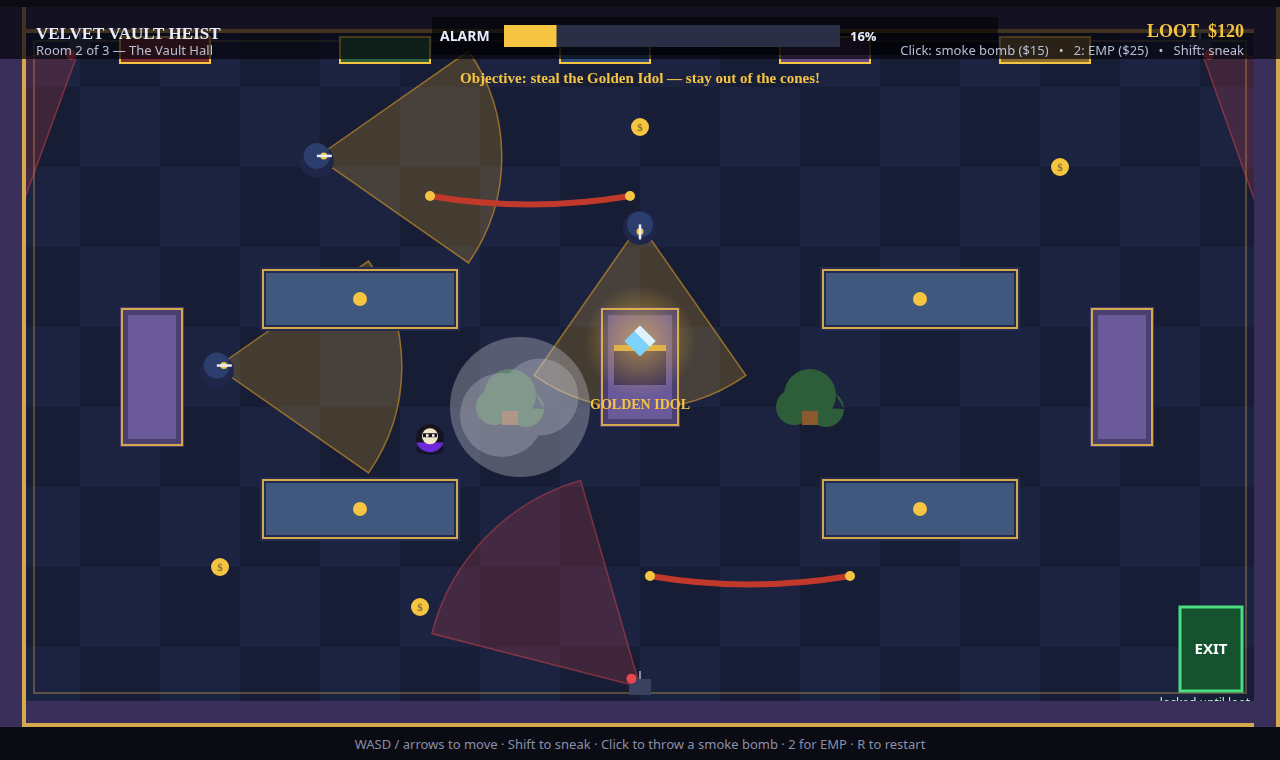
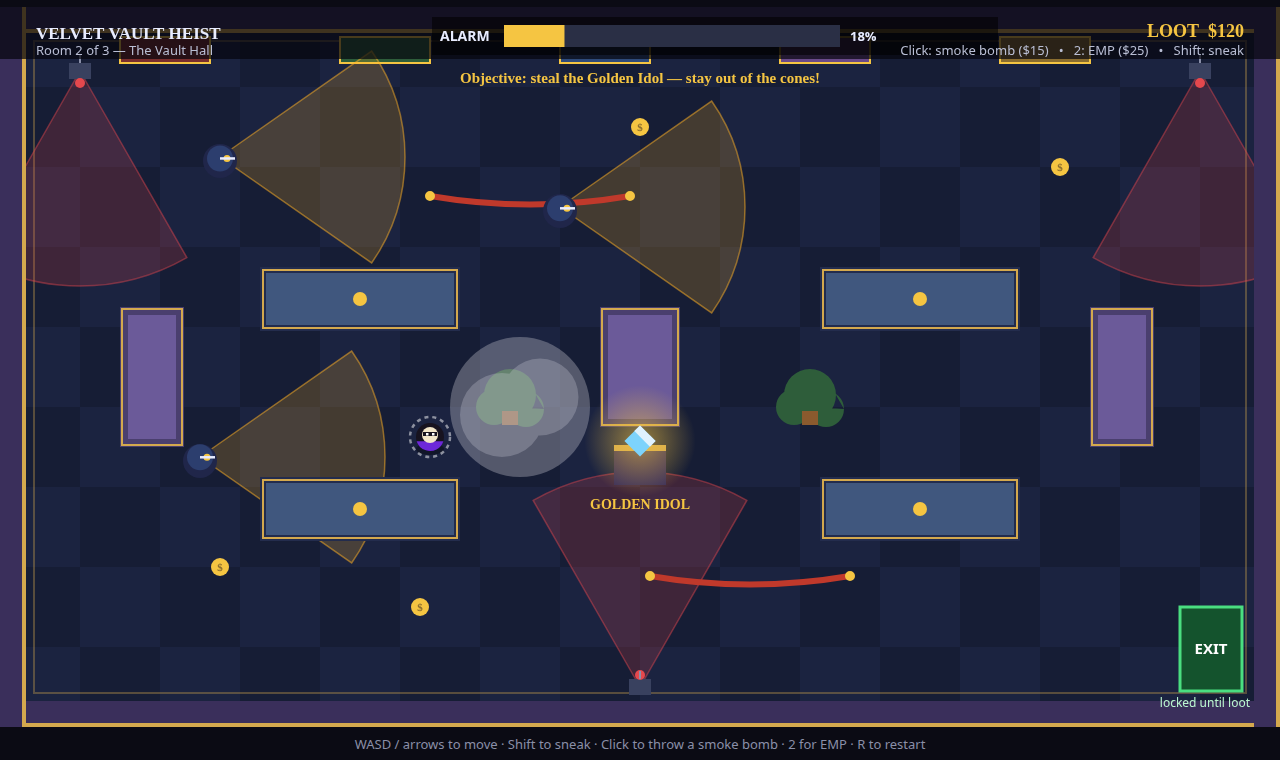
Fix critic round 1: loot out of pillars, exit label, staged SPOTTED/sneak, guard routes, reachability tests
- Rooms 2/3 loot moved to clear floor (L2 640,360->640,460; L3 640,300->640,430)
- Exit label drawn after walls so it is no longer painted over
- Staged ?shot= scenes freeze into a tableau: shot 2 sneak ring and shot 3
  SPOTTED!/red-! survive update(); shot 3 thief genuinely inside guard cone
- All guard patrols re-routed clear of every solid (legs verified by test)
- tests/logic-test.mjs: 51/51 pass incl per-level BFS loot+exit reachability
- Re-shot all 4 screenshots in headless Chrome; BUILD-REPORT corrected

diff --git a/game/src/config.js b/game/src/config.js
@@ -47,7 +47,7 @@ export const LEVELS = [
     smallLoot: [
       { x: 300, y: 180, taken: false },
       { x: 640, y: 560, taken: false },
-      { x: 1080, y: 520, taken: false },
+      { x: 1130, y: 600, taken: false },
     ],
     walls: [
       block(0, 0, VIEW_W, WALL_T, 'wall'),
@@ -66,11 +66,11 @@ export const LEVELS = [
       block(1080, 330, 70, 90, 'desk'),
     ],
     guards: [
-      { waypoints: [{ x: 380, y: 420 }, { x: 380, y: 130 }, { x: 760, y: 130 }, { x: 760, y: 420 }], pause: 0.9 },
-      { waypoints: [{ x: 1080, y: 620 }, { x: 1080, y: 300 }, { x: 700, y: 620 }], pause: 1.2 },
+      { waypoints: [{ x: 280, y: 560 }, { x: 280, y: 130 }, { x: 900, y: 130 }, { x: 900, y: 560 }], pause: 0.9 },
+      { waypoints: [{ x: 1160, y: 620 }, { x: 1160, y: 200 }], pause: 1.2 },
     ],
     cameras: [
-      { x: 640, y: 40, baseAngle: Math.PI / 2, sweep: 0.85, speed: 0.55 },
+      { x: 640, y: 64, baseAngle: Math.PI / 2, sweep: 0.85, speed: 0.55 },
       { x: 1180, y: 380, baseAngle: Math.PI, sweep: 0.7, speed: 0.7 },
     ],
   },
@@ -79,7 +79,7 @@ export const LEVELS = [
     briefing: 'The Golden Idol waits behind two patrols. Cameras never blink.',
     playerStart: { x: 90, y: 120 },
     exit: { x: 1180, y: 600, w: 62, h: 84 },
-    loot: { x: 640, y: 360, label: 'Golden Idol' },
+    loot: { x: 640, y: 460, label: 'Golden Idol' },
     smallLoot: [
       { x: 220, y: 560, taken: false },
       { x: 1060, y: 160, taken: false },
@@ -104,13 +104,13 @@ export const LEVELS = [
       block(780, 360, 60, 60, 'plant'),
     ],
     guards: [
-      { waypoints: [{ x: 300, y: 150 }, { x: 980, y: 150 }, { x: 980, y: 600 }, { x: 300, y: 600 }], pause: 0.7 },
-      { waypoints: [{ x: 640, y: 200 }, { x: 640, y: 520 }], pause: 1.0 },
-      { waypoints: [{ x: 200, y: 360 }, { x: 1080, y: 360 }], pause: 0.5 },
+      { waypoints: [{ x: 220, y: 150 }, { x: 1060, y: 150 }, { x: 1060, y: 600 }, { x: 220, y: 600 }], pause: 0.7 },
+      { waypoints: [{ x: 560, y: 200 }, { x: 560, y: 520 }], pause: 1.0 },
+      { waypoints: [{ x: 200, y: 450 }, { x: 1080, y: 450 }], pause: 0.5 },
     ],
     cameras: [
-      { x: 80, y: 40, baseAngle: Math.PI / 2, sweep: 0.9, speed: 0.6 },
-      { x: 1200, y: 40, baseAngle: Math.PI / 2, sweep: 0.9, speed: 0.6 },
+      { x: 80, y: 64, baseAngle: Math.PI / 2, sweep: 0.9, speed: 0.6 },
+      { x: 1200, y: 64, baseAngle: Math.PI / 2, sweep: 0.9, speed: 0.6 },
       { x: 640, y: 680, baseAngle: -Math.PI / 2, sweep: 0.8, speed: 0.8 },
     ],
   },
@@ -119,7 +119,7 @@ export const LEVELS = [
     briefing: 'One last prize — the Crown of Meridia — then the van on the roof.',
     playerStart: { x: 90, y: 600 },
     exit: { x: 1180, y: 84, w: 62, h: 84 },
-    loot: { x: 640, y: 300, label: 'Crown of Meridia' },
+    loot: { x: 640, y: 430, label: 'Crown of Meridia' },
     smallLoot: [
       { x: 300, y: 150, taken: false },
       { x: 980, y: 560, taken: false },
@@ -141,13 +141,13 @@ export const LEVELS = [
       block(640, 120, 200, 18, 'rope'),
     ],
     guards: [
-      { waypoints: [{ x: 250, y: 130 }, { x: 1030, y: 130 }, { x: 1030, y: 610 }, { x: 250, y: 610 }], pause: 0.6 },
-      { waypoints: [{ x: 640, y: 140 }, { x: 640, y: 580 }], pause: 0.8 },
-      { waypoints: [{ x: 180, y: 500 }, { x: 1100, y: 500 }, { x: 1100, y: 200 }, { x: 180, y: 200 }], pause: 0.6 },
+      { waypoints: [{ x: 290, y: 130 }, { x: 950, y: 130 }, { x: 950, y: 610 }, { x: 290, y: 610 }], pause: 0.6 },
+      { waypoints: [{ x: 560, y: 140 }, { x: 560, y: 580 }], pause: 0.8 },
+      { waypoints: [{ x: 290, y: 420 }, { x: 950, y: 420 }], pause: 0.6 },
     ],
     cameras: [
-      { x: 320, y: 40, baseAngle: Math.PI / 2, sweep: 1.0, speed: 0.75 },
-      { x: 960, y: 40, baseAngle: Math.PI / 2, sweep: 1.0, speed: 0.75 },
+      { x: 320, y: 64, baseAngle: Math.PI / 2, sweep: 1.0, speed: 0.75 },
+      { x: 960, y: 64, baseAngle: Math.PI / 2, sweep: 1.0, speed: 0.75 },
       { x: 1180, y: 360, baseAngle: Math.PI, sweep: 0.8, speed: 0.9 },
       { x: 80, y: 360, baseAngle: 0, sweep: 0.8, speed: 0.9 },
     ],

diff --git a/game/src/game.js b/game/src/game.js
@@ -32,6 +32,11 @@ export function createGame(onEvent) {
     smokes: [],
     sneaking: false,
     seenBy: null,
+    // True for a staged ?shot= scene: update() leaves the tableau frozen
+    // so the sneaking ring / SPOTTED banner the maker staged survive the
+    // frame instead of being overwritten by live detection. Normal play
+    // never sets this.
+    staged: false,
     time: 0,
     onEvent,
   };
@@ -46,6 +51,7 @@ export function createGame(onEvent) {
     s.lootTaken = false;
     s.smokes = [];
     s.seenBy = null;
+    s.staged = false;
     for (const c of s.level.smallLoot) c.taken = false;
   }
 
@@ -112,16 +118,21 @@ export function createGame(onEvent) {
 
   // Staged scenes for the maker's screenshots — real renders of this code
   // with the thief placed mid-heist. Normal play never uses ?shot=.
+  // Every shot freezes into a tableau (s.staged): update() returns early
+  // so the staged sneaking / SPOTTED state is never overwritten by live
+  // detection or by the lack of a held key.
   function applyShot(n) {
     if (n === 1) {
       loadLevel(0);
       s.state = 'playing';
+      s.staged = true;
       s.thief = { x: 470, y: 430 };
       s.alarm = 34;
       s.score = 40;
     } else if (n === 2) {
       loadLevel(1);
       s.state = 'playing';
+      s.staged = true;
       s.thief = { x: 430, y: 430 };
       s.sneaking = true;
       s.alarm = 18;
@@ -130,7 +141,12 @@ export function createGame(onEvent) {
     } else if (n === 3) {
       loadLevel(0);
       s.state = 'playing';
-      s.thief = { x: 760, y: 200 };
+      s.staged = true;
+      // Guard 0 starts at (280, 560) facing up its patrol lane; the thief
+      // stands 130 px ahead of it, genuinely inside its amber cone with
+      // clear line of sight, so the guard is alerted for real.
+      s.guards[0].angle = -Math.PI / 2;
+      s.thief = { x: 280, y: 430 };
       s.alarm = 88;
       s.score = 60;
       s.guards[0].alerted = true;
@@ -138,6 +154,7 @@ export function createGame(onEvent) {
     } else if (n === 4) {
       loadLevel(2);
       s.state = 'playing';
+      s.staged = true;
       s.thief = { x: 1120, y: 130 };
       s.lootTaken = true;
       s.alarm = 12;
@@ -148,6 +165,10 @@ export function createGame(onEvent) {
   function update(dt, move) {
     s.time += dt;
     if (s.state !== 'playing') return;
+    // A staged ?shot= tableau never advances: guards, cameras, alarm and
+    // the staged sneaking / SPOTTED state stay exactly as applyShot set
+    // them, so the screenshot shows the staged moment, not a later frame.
+    if (s.staged) return;
     s.sneaking = move.sneaking;
     if (move.x !== 0 || move.y !== 0) moveThief(move.x, move.y, dt);
 

diff --git a/game/src/render.js b/game/src/render.js
@@ -271,10 +271,6 @@ export function render(ctx, s) {
   ctx.font = 'bold 15px system-ui, sans-serif';
   ctx.textAlign = 'center';
   ctx.fillText(exitOpen ? 'GO!' : 'EXIT', e.x + e.w / 2, e.y + e.h / 2 + 5);
-  ctx.fillStyle = '#bbf7d0';
-  ctx.font = '12px system-ui, sans-serif';
-  ctx.textAlign = 'right';
-  ctx.fillText(exitOpen ? 'getaway van waits' : 'locked until loot', VIEW_W - 30, e.y + e.h + 16);
   ctx.textAlign = 'center';
 
   // Vision cones UNDER the actors, over the floor.
@@ -291,6 +287,14 @@ export function render(ctx, s) {
   }
 
   for (const w of s.level.walls) drawWall(ctx, w);
+
+  // Exit label AFTER the walls: the bottom outer wall used to paint over
+  // it (level 2's label sat inside the wall band and was illegible).
+  ctx.fillStyle = '#bbf7d0';
+  ctx.font = '12px system-ui, sans-serif';
+  ctx.textAlign = 'right';
+  ctx.fillText(exitOpen ? 'getaway van waits' : 'locked until loot', VIEW_W - 30, e.y + e.h + 16);
+  ctx.textAlign = 'center';
 
   // Small loot: gold coins.
   for (const c of s.level.smallLoot) {
@@ -422,6 +426,6 @@ export function render(ctx, s) {
     ctx.fillText('Final loot: $' + s.score, VIEW_W / 2, 400);
     ctx.fillStyle = '#b9bed4';
     ctx.font = '18px system-ui, sans-serif';
-    ctx.fillText('Press R to run it back', VIEW_W / 2, 445);
+    ctx.fillText('Press R to replay this room', VIEW_W / 2, 445);
   }
 }
